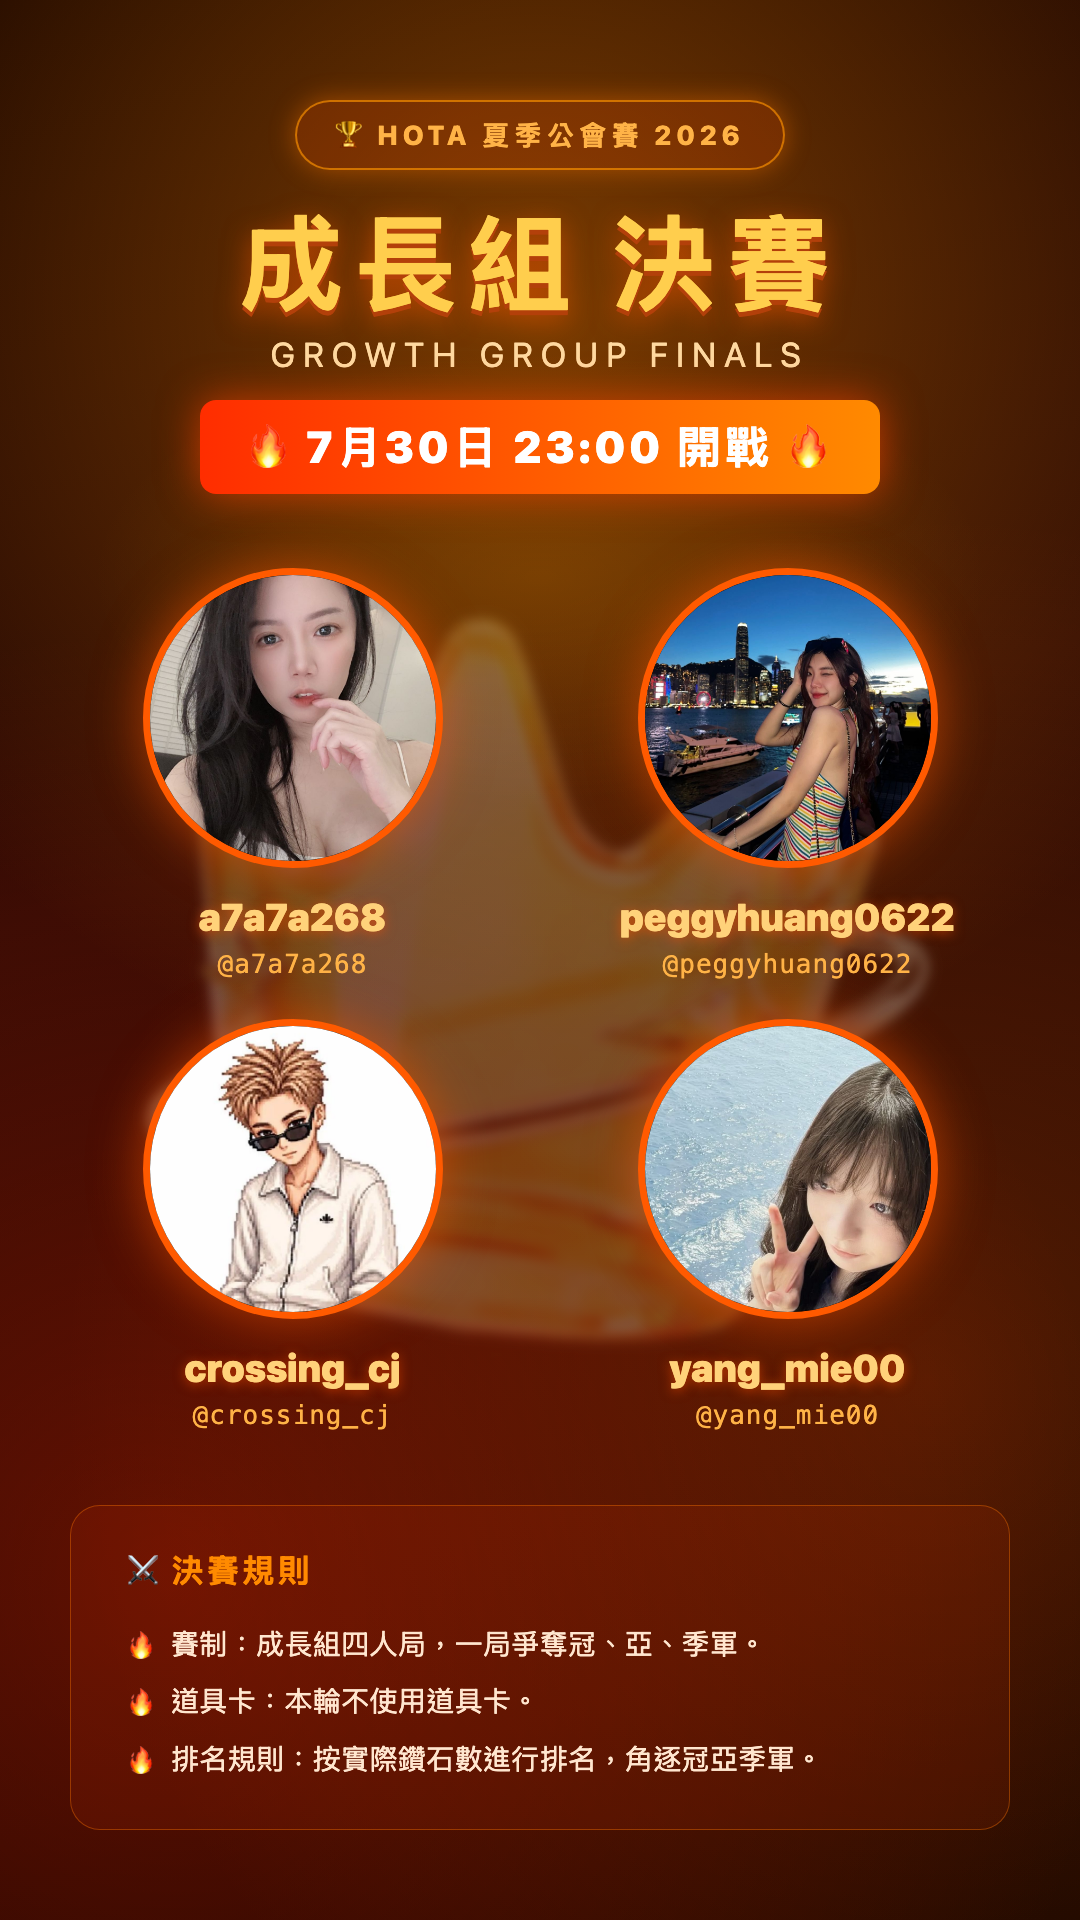
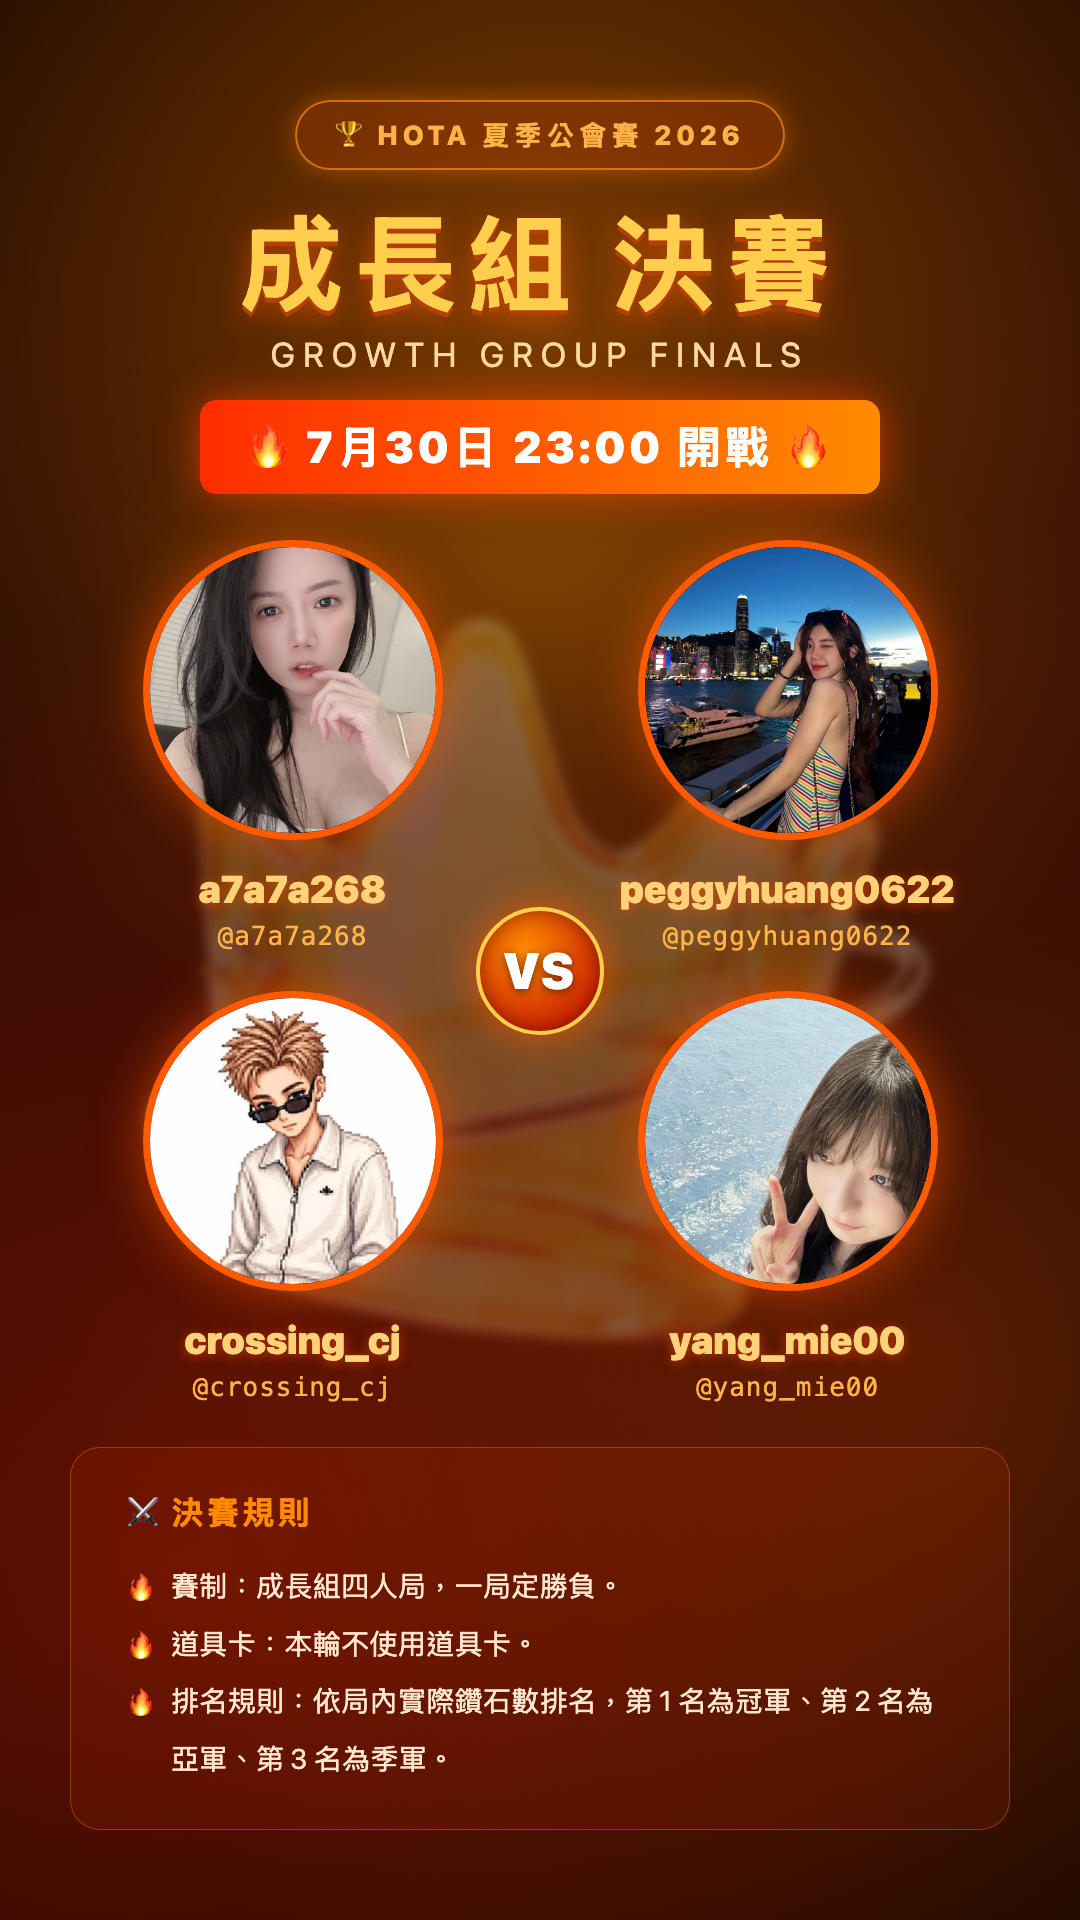
成長組海報：中央加入 VS 徽章，規則補充局內 123 名為冠亞季軍

diff --git a/growth_poster.html b/growth_poster.html
@@ -61,7 +61,20 @@ h1 {
   padding:16px 46px; border-radius:16px;
   box-shadow: 0 0 40px rgba(255,70,0,.65);
 }
-.mid { flex:1; display:flex; align-items:center; justify-content:center; }
+.mid { flex:1; display:flex; align-items:center; justify-content:center; position:relative; }
+.vs {
+  position:absolute; top:50%; left:50%;
+  transform:translate(-50%,-50%);
+  z-index:5;
+  width:128px; height:128px; border-radius:50%;
+  display:flex; align-items:center; justify-content:center;
+  font-size:50px; font-weight:900; letter-spacing:2px;
+  color:#fff;
+  background: radial-gradient(circle at 38% 32%, #ff8a00, #c81e00 78%);
+  border:4px solid #ffce4d;
+  box-shadow: 0 0 38px rgba(255,90,0,.75), inset 0 0 18px rgba(0,0,0,.35);
+  text-shadow: 0 2px 8px rgba(0,0,0,.5);
+}
 .grid {
   display:grid;
   grid-template-columns: 1fr 1fr;
@@ -107,6 +120,7 @@ h1 {
   </div>
 
   <div class="mid">
+    <div class="vs">VS</div>
     <div class="grid">
       <div class="fighter" id="p0">
         <div class="avatar-wrap"><img class="avatar" id="p0-img" src="" alt=""></div>
@@ -135,9 +149,9 @@ h1 {
     <div class="rules-box">
       <h3>⚔ 決賽規則</h3>
       <ul>
-        <li>賽制：成長組四人局，一局爭奪冠、亞、季軍。</li>
+        <li>賽制：成長組四人局，一局定勝負。</li>
         <li>道具卡：本輪不使用道具卡。</li>
-        <li>排名規則：按實際鑽石數進行排名，角逐冠亞季軍。</li>
+        <li>排名規則：依局內實際鑽石數排名，第 1 名為冠軍、第 2 名為亞軍、第 3 名為季軍。</li>
       </ul>
     </div>
   </div>
